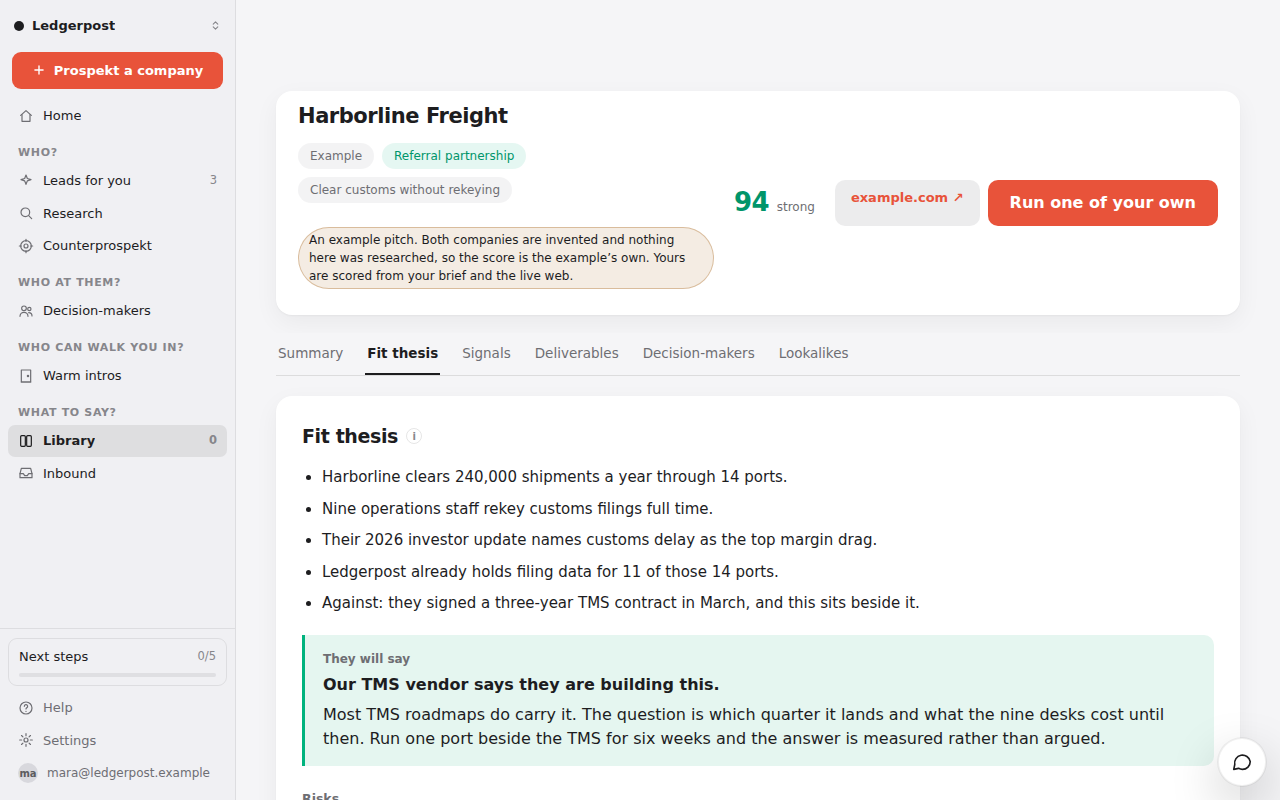
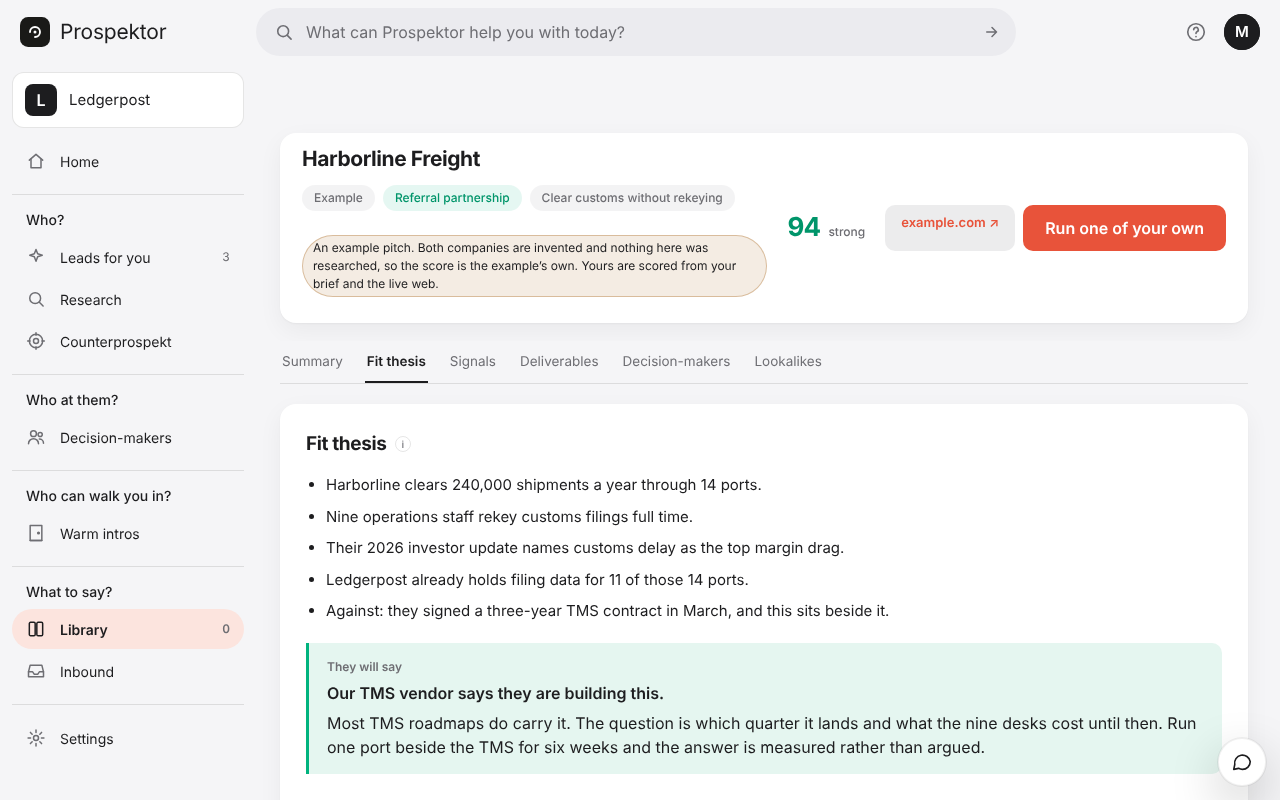
Re-capture /demo/ from the redesigned studio; the tour now opens from Home's setup card (studio #1151)
The studio stopped opening its tour on its own (#1097), so the capture
opens it the way dev/drive-tour.js does. Counterprospekt's anchor moved
inside #rivals-slot (#1103), so only the never-finishing note is hidden.
Strings snapshot refreshed to the same studio commit.

Claude-Session: https://claude.ai/code/session_011FgDshW7YAyG6kehuFALa1

diff --git a/tools/demo-capture.js b/tools/demo-capture.js
@@ -152,13 +152,23 @@ async function signIn(page, helpers) {
   if (consent) { await page.click('.ppsc-bar button.ppsc-btn-primary'); await page.waitForSelector('.ppsc-bar', { state: 'detached', timeout: 8000 }).catch(() => {}); }
   // The capture runs with no API key, so the shelf on Leads for you holds
   // simulated tiles that say so on their face, and so does Home's own row of
-  // three (`#start-leads`), and Counterprospekt's two readings that never land
-  // without a key (`#rivals-slot`, `#ranking-slot`). They are hidden BEFORE the tour
+  // three (`#start-leads`), and Counterprospekt's competitor reading that never
+  // lands without a key (its note, `#rivals-slot .rank-note`; since the studio's
+  // #1103 the slot itself holds the step's anchor, the add field, so it stays
+  // up). They are hidden BEFORE the tour
   // reaches that step, so the tour places its ring on the screen as shot; the
   // ring is on the ask box either way, and a visitor sees the box and the
   // sentence, never a placeholder company. The account nudge (a recovery
   // number and a passkey) is a fresh member's chore and goes the same way.
-  await page.addStyleTag({ content: '#view-suggested .tiles, #start-leads, #rivals-slot, #ranking-slot, #shelf-task, #shelf-state, #account-nudge { display: none !important; }' });
+  await page.addStyleTag({ content: '#view-suggested .tiles, #start-leads, #rivals-slot .rank-note, #shelf-task, #shelf-state, #account-nudge { display: none !important; }' });
+  // Since the studio's #1097 the tour never opens on its own: it is the last
+  // line of the setup card on Home, and it opens when that line is pressed.
+  // The studio's own `dev/drive-tour.js` opens it the same way.
+  await page.waitForSelector('#segments button[data-view="start"]', { timeout: 15000 });
+  await page.click('#segments button[data-view="start"]');
+  await page.waitForSelector('#view-start:not(.hidden)', { timeout: 15000 });
+  await page.waitForSelector('#home-setup #home-tour', { state: 'visible', timeout: 15000 });
+  await page.click('#home-tour');
   await page.waitForSelector('#tour:not(.hidden)', { timeout: 15000 });
   // Step 1's anchor is the ask box on Home since the studio's #877 took the
   // doors away; the studio's own `dev/drive-tour.js` waits on the same box.
@@ -281,8 +291,9 @@ async function main() {
     const total = await page.locator('#tour-dots i').count();
     if (total !== steps.length) throw new Error(`the page draws ${total} steps and the source parses ${steps.length}`);
     // What each step past the pitch must have drawn before it is read, the
-    // drive's own list: Your network and Settings fetch before they draw.
-    const DRAWN = { prep: '#prep-form', network: '.net-form', workspace: '#workspace-body .scard-title' };
+    // drive's own list: Counterprospekt, Your network, the Library and
+    // Settings fetch before they draw.
+    const DRAWN = { counter: '#counter-company', network: '#network-imports-card:not(.hidden)', prep: '#prep-form', library: '#saved-list', workspace: '#workspace-body .scard-title' };
     const out = [];
     for (let i = 0; i < total; i += 1) {
       if (i > 0) await page.click('#tour-next');
